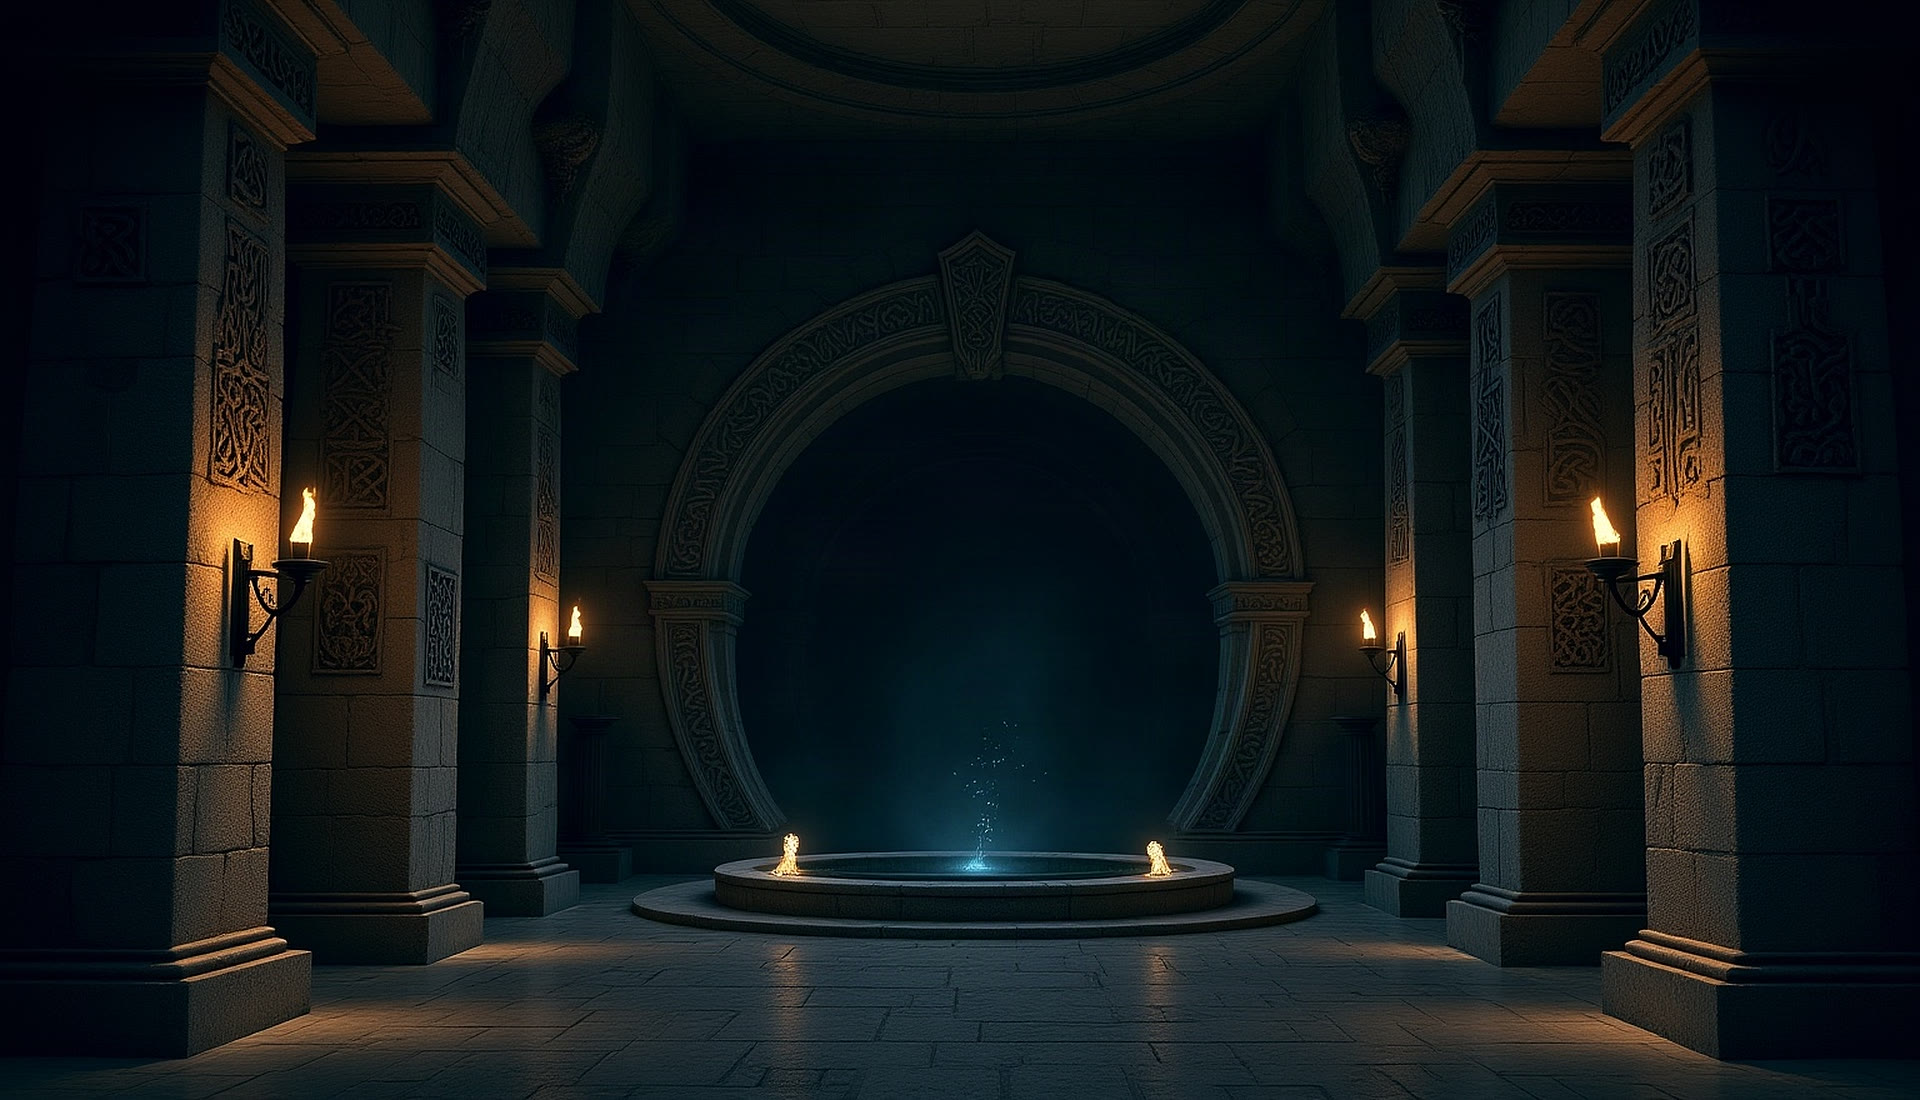
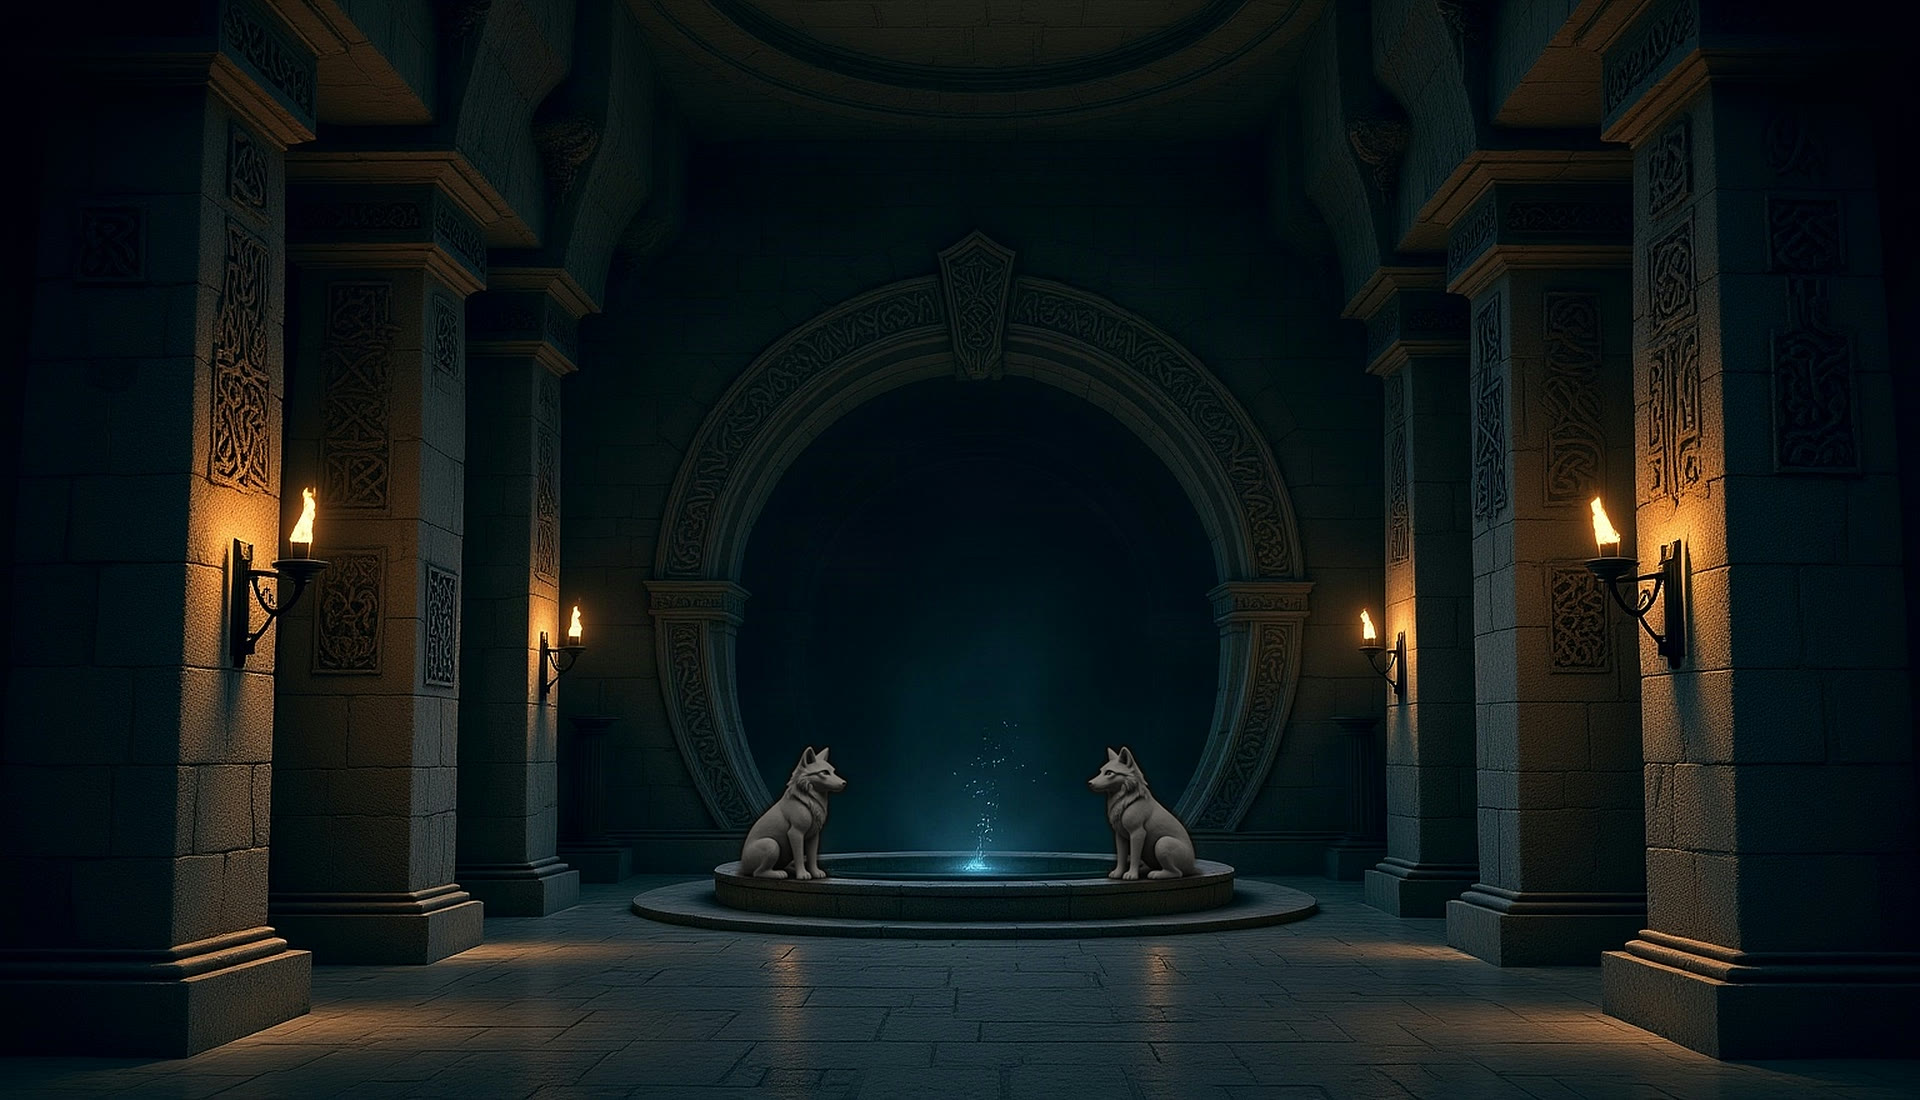
Runes background: the two flame blobs on the pool rim are now stone wolf statues

Changed region(s): [[0.5625, 0.68, 0.625, 0.8036], [0.375, 0.68, 0.4375, 0.8036]]

diff --git a/index.html b/index.html
@@ -632,7 +632,7 @@ footer.pfoot{text-align:center;color:var(--ink-3);font-size:.8rem;padding:2rem 1
   // the rune temple behind the sigil, same wide/tall choice
   // owner's notes 2026-11-17: the old temple read as Egyptian. Same temple (layout, torches, dais, mist), restyled
   // Norse/medieval: knotwork and rune carvings, a Romanesque arch (FLUX Kontext edit of temple-wide/tall). Stills.
-  const TEMPLE = { wide: { img: "img/app/norse-wide.jpg?v=1" }, tall: { img: "img/app/norse-tall.jpg?v=1" } };
+  const TEMPLE = { wide: { img: "img/app/norse-wide.jpg?v=2" }, tall: { img: "img/app/norse-tall.jpg?v=1" } };
   const ts = $("#templeStill"); let tcut = null;
   const placeTemple = () => {
     const want = innerWidth / innerHeight < .9 ? "tall" : "wide";
